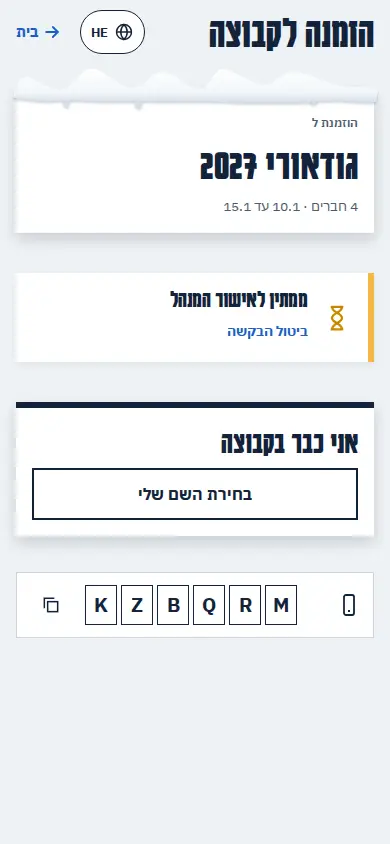
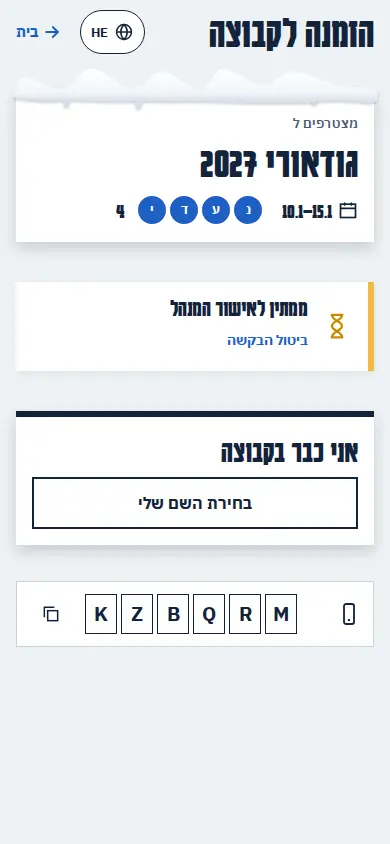
סבב 20: ראש מסך ההצטרפות מראה את הקבוצה; המקור והוודאות לפי החלטה 64
Claude-Session: https://claude.ai/code/session_018WEovaqXC4kNabe89Cnwoj

diff --git a/design/canvas/project/R20-BA-group.dc.html b/design/canvas/project/R20-BA-group.dc.html
@@ -12,9 +12,9 @@
 body{margin:0;background:#EEF2F5}
 </style>
 </helmet>
-<div style="width: 2102px; height: 1074px; box-sizing: border-box; padding: 20px; display: flex; flex-direction: column; gap: 12px; background: #FFFFFF; color: #13233A; font-family: 'IBM Plex Sans Hebrew', system-ui, sans-serif; direction: rtl"><div style="display: flex; flex-direction: column; gap: 6px; height: 144px; max-width: 2062px"><b style="font-family: Karantina, 'Arial Narrow', sans-serif; font-size: 34px; line-height: 1">קבוצה ריקה והצטרפות</b><span style="font-size: 14px; line-height: 1.45; color: #4B5A6F">עודכן לפי ההערות: &quot;יצירת קבוצה דורשת חשבון&quot; ירד; נגיעה ב&quot;יצירת קבוצה&quot; כאורח פותחת מגירת כניסה עם גוגל או אפל וכותרת אחת. בהזמנה: הבקשה הממתינה היא כרטיס (שעון חול, &quot;ממתין לאישור המנהל&quot;, ביטול), והקוד לאפליקציה בכרטיס קטן עם האותיות בתיבות והעתקה.</span><div style="display: flex; gap: 14px; flex-wrap: wrap; font-size: 13.5px; color: #4B5A6F"><span><i style="display: inline-block; width: 14px; height: 14px; margin-inline-end: 5px; vertical-align: -2px; background: #D5372E55; border: 2px solid #D5372E"></i>מיותר: למחוק</span><span><i style="display: inline-block; width: 14px; height: 14px; margin-inline-end: 5px; vertical-align: -2px; background: #E8A21A55; border: 2px solid #E8A21A"></i>הסבר: להחליף בצורה</span><span><i style="display: inline-block; width: 14px; height: 14px; margin-inline-end: 5px; vertical-align: -2px; background: #1F5FC455; border: 2px solid #1F5FC4"></i>חובה: להציג אחרת</span><span><i style="display: inline-block; width: 14px; height: 14px; margin-inline-end: 5px; vertical-align: -2px; background: #8A97A855; border: 2px solid #8A97A8"></i>משפטי וקרדיטים</span><span>בלי סימון: שמות, כפתורים ומספרים</span></div></div><div style="display: flex; gap: 28px; align-items: flex-start"><div style="display: flex; flex-direction: column; gap: 18px; width: 390px"><b style="height: 16px; font-size: 15px; color: #1F5FC4">קבוצה ריקה: היום</b><img src="/_blob/73fcaba58200e06156442180d3776700" alt="קבוצה ריקה: היום" style="display: block; width: 390px; height: 844px; box-shadow: 0 0 0 1px #CBD5DF"></div><div style="display: flex; flex-direction: column; gap: 18px; width: 390px"><b style="height: 16px; font-size: 15px; color: #1F5FC4">ההצעה</b><img src="/_blob/e12d9a0ebf8f3ea9e98032a8f226312b" alt="ההצעה" style="display: block; width: 390px; height: 844px; box-shadow: 0 0 0 1px #CBD5DF"></div><div style="display: flex; flex-direction: column; gap: 18px; width: 390px"><b style="height: 16px; font-size: 15px; color: #1F5FC4">נגיעה ביצירת קבוצה</b><img src="/_blob/6a4fb3bb698487bb3cea30b7d0b9eee6" alt="נגיעה ביצירת קבוצה" style="display: block; width: 390px; height: 844px; box-shadow: 0 0 0 1px #CBD5DF"></div><div style="display: flex; flex-direction: column; gap: 18px; width: 390px"><b style="height: 16px; font-size: 15px; color: #1F5FC4">הצטרפות: היום</b><img src="/_blob/c225cb967a1c6d4e746834c63dfd9e7f" alt="הצטרפות: היום" style="display: block; width: 390px; height: 844px; box-shadow: 0 0 0 1px #CBD5DF"></div><div style="display: flex; flex-direction: column; gap: 18px; width: 390px"><b style="height: 16px; font-size: 15px; color: #1F5FC4">ההצעה</b><img src="/_blob/51156944ce00b78a7030eb9deee17e79" alt="ההצעה" style="display: block; width: 390px; height: 844px; box-shadow: 0 0 0 1px #CBD5DF"></div></div></div>
+<div style="width: 2102px; height: 1792px; box-sizing: border-box; padding: 20px; display: flex; flex-direction: column; gap: 12px; background: #FFFFFF; color: #13233A; font-family: 'IBM Plex Sans Hebrew', system-ui, sans-serif; direction: rtl"><div style="display: flex; flex-direction: column; gap: 6px; height: 144px; max-width: 2062px"><b style="font-family: Karantina, 'Arial Narrow', sans-serif; font-size: 34px; line-height: 1">קבוצה ריקה והצטרפות</b><span style="font-size: 14px; line-height: 1.45; color: #4B5A6F">עודכן לפי ההערות: &quot;יצירת קבוצה דורשת חשבון&quot; ירד; נגיעה ב&quot;יצירת קבוצה&quot; כאורח פותחת מגירת כניסה עם גוגל או אפל וכותרת אחת. בהזמנה: ראש המסך מראה לאיזו קבוצה מצטרפים, בצורה: השם, התאריכים והחברים, ורק אחר כך השם שלך (הקישור או הקוד כבר קובעים את הקבוצה, ולכן אין בחירה). הבקשה הממתינה היא כרטיס (שעון חול, &quot;ממתין לאישור המנהל&quot;, ביטול), והקוד לאפליקציה בכרטיס קטן עם האותיות בתיבות והעתקה.</span><div style="display: flex; gap: 14px; flex-wrap: wrap; font-size: 13.5px; color: #4B5A6F"><span><i style="display: inline-block; width: 14px; height: 14px; margin-inline-end: 5px; vertical-align: -2px; background: #D5372E55; border: 2px solid #D5372E"></i>מיותר: למחוק</span><span><i style="display: inline-block; width: 14px; height: 14px; margin-inline-end: 5px; vertical-align: -2px; background: #E8A21A55; border: 2px solid #E8A21A"></i>הסבר: להחליף בצורה</span><span><i style="display: inline-block; width: 14px; height: 14px; margin-inline-end: 5px; vertical-align: -2px; background: #1F5FC455; border: 2px solid #1F5FC4"></i>חובה: להציג אחרת</span><span><i style="display: inline-block; width: 14px; height: 14px; margin-inline-end: 5px; vertical-align: -2px; background: #8A97A855; border: 2px solid #8A97A8"></i>משפטי וקרדיטים</span><span>בלי סימון: שמות, כפתורים ומספרים</span></div></div><div style="display: flex; gap: 28px; align-items: flex-start"><div style="display: flex; flex-direction: column; gap: 18px; width: 390px"><b style="height: 16px; font-size: 15px; color: #1F5FC4">קבוצה ריקה: היום</b><img src="/_blob/73fcaba58200e06156442180d3776700" alt="קבוצה ריקה: היום" style="display: block; width: 390px; height: 844px; box-shadow: 0 0 0 1px #CBD5DF"></div><div style="display: flex; flex-direction: column; gap: 18px; width: 390px"><b style="height: 16px; font-size: 15px; color: #1F5FC4">ההצעה</b><img src="/_blob/e12d9a0ebf8f3ea9e98032a8f226312b" alt="ההצעה" style="display: block; width: 390px; height: 844px; box-shadow: 0 0 0 1px #CBD5DF"></div><div style="display: flex; flex-direction: column; gap: 18px; width: 390px"><b style="height: 16px; font-size: 15px; color: #1F5FC4">נגיעה ביצירת קבוצה</b><img src="/_blob/6a4fb3bb698487bb3cea30b7d0b9eee6" alt="נגיעה ביצירת קבוצה" style="display: block; width: 390px; height: 844px; box-shadow: 0 0 0 1px #CBD5DF"></div><div style="display: flex; flex-direction: column; gap: 18px; width: 390px"><b style="height: 16px; font-size: 15px; color: #1F5FC4">הצטרפות: היום</b><img src="/_blob/c225cb967a1c6d4e746834c63dfd9e7f" alt="הצטרפות: היום" style="display: block; width: 390px; height: 844px; box-shadow: 0 0 0 1px #CBD5DF"></div><div style="display: flex; flex-direction: column; gap: 18px; width: 390px"><b style="height: 16px; font-size: 15px; color: #1F5FC4">ההצעה: לפני ואחרי הבקשה</b><img src="/_blob/8ba4272aed5fe8eb2a25b13449570589" alt="ההצעה: לפני ואחרי הבקשה" style="display: block; width: 390px; height: 700px; box-shadow: 0 0 0 1px #CBD5DF"><img src="/_blob/4dfeb63b6ec14c5b087611a0570b84d5" alt="ההצעה: לפני ואחרי הבקשה" style="display: block; width: 390px; height: 844px; box-shadow: 0 0 0 1px #CBD5DF"></div></div></div>
 </x-dc>
-<script type="text/x-dc" data-dc-script data-props='{"$preview":{"width":2102,"height":1074}}'>
+<script type="text/x-dc" data-dc-script data-props='{"$preview":{"width":2102,"height":1792}}'>
 class Component extends DCLogic {
   renderVals() { return {}; }
 }

diff --git a/design/canvas/project/R20-0-Decide.dc.html b/design/canvas/project/R20-0-Decide.dc.html
@@ -12,7 +12,7 @@
 body{margin:0;background:#EEF2F5}
 </style>
 </helmet>
-<div style="width: 600px; height: 1300px; box-sizing: border-box; padding: 28px; background: #FFFFFF; color: #13233A; font-family: 'IBM Plex Sans Hebrew', system-ui, sans-serif; direction: rtl; border-top: 8px solid #1F5FC4"><h1 style="margin: 0; font-family: Karantina, 'Arial Narrow', sans-serif; font-size: 48px; line-height: 1">מה לאשר בסבב 20</h1><p style="margin: 8px 0 12px; font-size: 14.5px; line-height: 1.55; color: #4B5A6F">ביקשת אתר ואפליקציה נקיים וחווייתיים, בלי טקסט שמתאר או מסביר כשאין בו צורך. ספרתי כל טקסט ב-15 מסכים וסיווגתי אותו, וציירתי את המסכים העמוסים אחרי, בתוך האתר האמיתי. וגם: טופס "הטיול שלך" מחדש. שום דבר לא נבנה לפני שתאשר.</p><ol style="margin: 0; padding: 0; list-style: none"><li style="display: flex; flex-direction: column; gap: 2px; padding: 9px 0; border-top: 1px solid #CBD5DF"><b style="font-size: 16px">עודכן לפי ההערות שלך</b><span style="font-size: 14px; line-height: 1.55; color: #4B5A6F">כל ההערות על סבב 20 בקנבס טופלו בלוחות (6.10.2026): דף הבית, פאנל המסלול, נקודת המפגש, המשחקים, ההגדרות, הכניסה, הקבוצה וההזמנה. בכל לוח, עמודת &quot;ההצעה&quot; היא הגרסה החדשה.</span></li><li style="display: flex; flex-direction: column; gap: 2px; padding: 9px 0; border-top: 1px solid #CBD5DF"><b style="font-size: 16px">הכלל</b><span style="font-size: 14px; line-height: 1.55; color: #4B5A6F">אם הטקסט לא אומר משהו שאין במסך עצמו, הוא יורד. מה שחייב להישאר מקבל צורה: סמל, מספר גדול, כרטיס או מגירה.</span></li><li style="display: flex; flex-direction: column; gap: 2px; padding: 9px 0; border-top: 1px solid #CBD5DF"><b style="font-size: 16px">שאלה 1: המקור והוודאות</b><span style="font-size: 14px; line-height: 1.55; color: #4B5A6F">ביקשת להוריד מפאנל המסלול את המקור ומידת הוודאות. זה משנה את כלל הדיוק 5 ב-CLAUDE.md (&quot;זה מוצג למשתמש בפאנל&quot;). <b style="color: #13233A">ההמלצה:</b> להוריד מהפאנל כמו שביקשת, ולהשאיר את המידע בנתונים ובסמל (i) ליד שם המסלול, רק למסלולים בוודאות בינונית או נמוכה. לאשר?</span></li><li style="display: flex; flex-direction: column; gap: 2px; padding: 9px 0; border-top: 1px solid #CBD5DF"><b style="font-size: 16px">שאלה 2: &quot;לבחור קבוצה&quot;</b><span style="font-size: 14px; line-height: 1.55; color: #4B5A6F">בהזמנה כתבת &quot;צריכה להיות אפשרות לבחור קבוצה, לא ישר להכניס את השם&quot;. לא הבנתי למה הכוונה: לבחור את השם שלך מרשימת החברים (כמו &quot;בחירת השם שלי&quot;), או לבחור בין כמה קבוצות? (שימו לב: בהזמנה שדורשת אישור רשימת החברים מוסתרת, החלטה 43.)</span></li><li style="display: flex; flex-direction: column; gap: 2px; padding: 9px 0; border-top: 1px solid #CBD5DF"><b style="font-size: 16px">טופס &quot;הטיול שלך&quot;</b><span style="font-size: 14px; line-height: 1.55; color: #4B5A6F">בלי שינוי מהגרסה הקודמת: הכרטיס הוא הטופס, שתי נגיעות בלוח שנה, השאר לא חובה.</span></li><li style="display: flex; flex-direction: column; gap: 2px; padding: 9px 0; border-top: 1px solid #CBD5DF"><b style="font-size: 16px">איך ממשיכים</b><span style="font-size: 14px; line-height: 1.55; color: #4B5A6F">אחרי האישור: רשימת המחרוזות לסשן התוכן; הקוד אצל סשני האתר והאנדרואיד; שומר היישור בודק ששני הצדדים זהים.</span></li></ol></div>
+<div style="width: 600px; height: 1300px; box-sizing: border-box; padding: 28px; background: #FFFFFF; color: #13233A; font-family: 'IBM Plex Sans Hebrew', system-ui, sans-serif; direction: rtl; border-top: 8px solid #1F5FC4"><h1 style="margin: 0; font-family: Karantina, 'Arial Narrow', sans-serif; font-size: 48px; line-height: 1">מה לאשר בסבב 20</h1><p style="margin: 8px 0 12px; font-size: 14.5px; line-height: 1.55; color: #4B5A6F">ביקשת אתר ואפליקציה נקיים וחווייתיים, בלי טקסט שמתאר או מסביר כשאין בו צורך. ספרתי כל טקסט ב-15 מסכים וסיווגתי אותו, וציירתי את המסכים העמוסים אחרי, בתוך האתר האמיתי. וגם: טופס "הטיול שלך" מחדש. שום דבר לא נבנה לפני שתאשר.</p><ol style="margin: 0; padding: 0; list-style: none"><li style="display: flex; flex-direction: column; gap: 2px; padding: 9px 0; border-top: 1px solid #CBD5DF"><b style="font-size: 16px">עודכן לפי ההערות שלך</b><span style="font-size: 14px; line-height: 1.55; color: #4B5A6F">כל ההערות על סבב 20 בקנבס טופלו בלוחות (6.10.2026): דף הבית, פאנל המסלול, נקודת המפגש, המשחקים, ההגדרות, הכניסה, הקבוצה וההזמנה. בכל לוח, עמודת &quot;ההצעה&quot; היא הגרסה החדשה.</span></li><li style="display: flex; flex-direction: column; gap: 2px; padding: 9px 0; border-top: 1px solid #CBD5DF"><b style="font-size: 16px">הכלל</b><span style="font-size: 14px; line-height: 1.55; color: #4B5A6F">אם הטקסט לא אומר משהו שאין במסך עצמו, הוא יורד. מה שחייב להישאר מקבל צורה: סמל, מספר גדול, כרטיס או מגירה.</span></li><li style="display: flex; flex-direction: column; gap: 2px; padding: 9px 0; border-top: 1px solid #CBD5DF"><b style="font-size: 16px">המקור והוודאות</b><span style="font-size: 14px; line-height: 1.55; color: #4B5A6F">פיני: &quot;אפשר להוריד&quot; (החלטה 64). יורדים מפאנל המסלול, באתר ובאפליקציה; בנתונים נשארים חובה.</span></li><li style="display: flex; flex-direction: column; gap: 2px; padding: 9px 0; border-top: 1px solid #CBD5DF"><b style="font-size: 16px">&quot;לבחור קבוצה&quot; בהזמנה</b><span style="font-size: 14px; line-height: 1.55; color: #4B5A6F">הקישור או הקוד כבר קובעים את הקבוצה, ולכן <b style="color: #13233A">אין בחירה</b>. במקום זה, ראש המסך מראה בבירור לאיזו קבוצה מצטרפים: השם בגדול, התאריכים והחברים כסמלים, ורק אחר כך &quot;איך קוראים לך בקבוצה?&quot;. לאשר?</span></li><li style="display: flex; flex-direction: column; gap: 2px; padding: 9px 0; border-top: 1px solid #CBD5DF"><b style="font-size: 16px">טופס &quot;הטיול שלך&quot;</b><span style="font-size: 14px; line-height: 1.55; color: #4B5A6F">בלי שינוי מהגרסה הקודמת: הכרטיס הוא הטופס, שתי נגיעות בלוח שנה, השאר לא חובה.</span></li><li style="display: flex; flex-direction: column; gap: 2px; padding: 9px 0; border-top: 1px solid #CBD5DF"><b style="font-size: 16px">איך ממשיכים</b><span style="font-size: 14px; line-height: 1.55; color: #4B5A6F">אחרי האישור: רשימת המחרוזות לסשן התוכן; הקוד אצל סשני האתר והאנדרואיד; שומר היישור בודק ששני הצדדים זהים.</span></li></ol></div>
 </x-dc>
 <script type="text/x-dc" data-dc-script data-props='{"$preview":{"width":600,"height":1300}}'>
 class Component extends DCLogic {

diff --git a/design/round20/build.py b/design/round20/build.py
@@ -26,7 +26,7 @@ SRC = {
     'b-about': ('r', 'marked/about.png', 390, 0, 1000), 'a-about': ('r', 'after/about.png', 390, 0, 1000),
     'b-signin': ('r', 'marked/signin.png', 390, 0, 844), 'a-signin': ('r', 'after/signin.png', 390, 0, 844),
     'b-group-empty': ('r', 'marked/group-empty.png', 390, 0, 844), 'a-group-empty': ('r', 'after/group-empty.png', 390, 0, 844),
-    'b-join': ('r', 'marked/join.png', 390, 0, 844), 'a-join': ('r', 'after/join.png', 390, 0, 844), 'a-group-signin': ('r', 'after/group-signin.png', 390, 0, 844),
+    'b-join': ('r', 'marked/join.png', 390, 0, 844), 'a-join': ('r', 'after/join.png', 390, 0, 844), 'a-group-signin': ('r', 'after/group-signin.png', 390, 0, 844), 'a-join-name': ('r', 'after/join-name.png', 390, 0, 700),
     'b-account': ('r', 'marked/account.png', 390, 0, 844),
     'trip-site': ('s', 'site-trip-form.png', 390, 0, 883), 'trip-app': ('q', 'home-26-trip-form-filled.png', 390, 0, 844),
     'trip-1': ('r', 'trip/t1-ticket.png', 390, 0, 844), 'trip-2': ('r', 'trip/t2-dates.png', 390, 0, 844),
@@ -60,8 +60,8 @@ BOARDS = [
      [('היום', ['b-about']), ('ההצעה', ['a-about'])]),
     ('ba', 'BA-signin', 'כניסה', 'עודכן לפי ההערות: שלושת הסמלים (בלי סיסמה, בלי מיילים, רק השם) עברו לתוך הכרטיס "למה להתחבר". בשורה התחתונה ירד "(הטיול שלך)".',
      [('היום', ['b-signin']), ('ההצעה', ['a-signin'])]),
-    ('ba', 'BA-group', 'קבוצה ריקה והצטרפות', 'עודכן לפי ההערות: "יצירת קבוצה דורשת חשבון" ירד; נגיעה ב"יצירת קבוצה" כאורח פותחת מגירת כניסה עם גוגל או אפל וכותרת אחת. בהזמנה: הבקשה הממתינה היא כרטיס (שעון חול, "ממתין לאישור המנהל", ביטול), והקוד לאפליקציה בכרטיס קטן עם האותיות בתיבות והעתקה.',
-     [('קבוצה ריקה: היום', ['b-group-empty']), ('ההצעה', ['a-group-empty']), ('נגיעה ביצירת קבוצה', ['a-group-signin']), ('הצטרפות: היום', ['b-join']), ('ההצעה', ['a-join'])]),
+    ('ba', 'BA-group', 'קבוצה ריקה והצטרפות', 'עודכן לפי ההערות: "יצירת קבוצה דורשת חשבון" ירד; נגיעה ב"יצירת קבוצה" כאורח פותחת מגירת כניסה עם גוגל או אפל וכותרת אחת. בהזמנה: ראש המסך מראה לאיזו קבוצה מצטרפים, בצורה: השם, התאריכים והחברים, ורק אחר כך השם שלך (הקישור או הקוד כבר קובעים את הקבוצה, ולכן אין בחירה). הבקשה הממתינה היא כרטיס (שעון חול, "ממתין לאישור המנהל", ביטול), והקוד לאפליקציה בכרטיס קטן עם האותיות בתיבות והעתקה.',
+     [('קבוצה ריקה: היום', ['b-group-empty']), ('ההצעה', ['a-group-empty']), ('נגיעה ביצירת קבוצה', ['a-group-signin']), ('הצטרפות: היום', ['b-join']), ('ההצעה: לפני ואחרי הבקשה', ['a-join-name', 'a-join'])]),
     ('trip', 'Trip-today', 'הטיול שלך: היום', 'באתר טופס של שמונה שדות. באפליקציה עשרה שדות, כולם עם בוררים. בשני הצדדים רק התאריך באמת חובה.',
      [('באתר', ['trip-site']), ('באפליקציה', ['trip-app'])]),
     ('trip', 'Trip-new', 'הטיול שלך: הכרטיס הוא הטופס', 'אין טופס. על הכרטיס הריק: TLV ו-TBS כבר כתובים, ושדה אחד גדול, "מתי טסים?". לוח שנה אחד, שתי נגיעות (הלוך וחזור), וימי הסקי נצבעים ביניהן. הכרטיס מתמלא מיד; מספר הטיסה והשעות מחכים כשדות על הכרטיס, למי שרוצה. כל שדה פותח רק את המגירה שלו.',
@@ -93,8 +93,8 @@ TEXT_BOARDS = [
 DECIDE = [
     ('עודכן לפי ההערות שלך', 'כל ההערות על סבב 20 בקנבס טופלו בלוחות (6.10.2026): דף הבית, פאנל המסלול, נקודת המפגש, המשחקים, ההגדרות, הכניסה, הקבוצה וההזמנה. בכל לוח, עמודת "ההצעה" היא הגרסה החדשה.'),
     ('הכלל', 'אם הטקסט לא אומר משהו שאין במסך עצמו, הוא יורד. מה שחייב להישאר מקבל צורה: סמל, מספר גדול, כרטיס או מגירה.'),
-    ('שאלה 1: המקור והוודאות', 'ביקשת להוריד מפאנל המסלול את המקור ומידת הוודאות. זה משנה את כלל הדיוק 5 ב-CLAUDE.md ("זה מוצג למשתמש בפאנל"). **ההמלצה:** להוריד מהפאנל כמו שביקשת, ולהשאיר את המידע בנתונים ובסמל (i) ליד שם המסלול, רק למסלולים בוודאות בינונית או נמוכה. לאשר?'),
-    ('שאלה 2: "לבחור קבוצה"', 'בהזמנה כתבת "צריכה להיות אפשרות לבחור קבוצה, לא ישר להכניס את השם". לא הבנתי למה הכוונה: לבחור את השם שלך מרשימת החברים (כמו "בחירת השם שלי"), או לבחור בין כמה קבוצות? (שימו לב: בהזמנה שדורשת אישור רשימת החברים מוסתרת, החלטה 43.)'),
+    ('המקור והוודאות', 'פיני: "אפשר להוריד" (החלטה 64). יורדים מפאנל המסלול, באתר ובאפליקציה; בנתונים נשארים חובה.'),
+    ('"לבחור קבוצה" בהזמנה', 'הקישור או הקוד כבר קובעים את הקבוצה, ולכן **אין בחירה**. במקום זה, ראש המסך מראה בבירור לאיזו קבוצה מצטרפים: השם בגדול, התאריכים והחברים כסמלים, ורק אחר כך "איך קוראים לך בקבוצה?". לאשר?'),
     ('טופס "הטיול שלך"', 'בלי שינוי מהגרסה הקודמת: הכרטיס הוא הטופס, שתי נגיעות בלוח שנה, השאר לא חובה.'),
     ('איך ממשיכים', 'אחרי האישור: רשימת המחרוזות לסשן התוכן; הקוד אצל סשני האתר והאנדרואיד; שומר היישור בודק ששני הצדדים זהים.'),
 ]

diff --git a/docs/STATUS.md b/docs/STATUS.md
@@ -260,7 +260,7 @@
 
 **החלטות של פיני שממתינות:**
 - [ ] אתרי הסקי הבאים: חמש השאלות ב-`research/resorts.md` (הסדר, החרמון, חצי הכדור הדרומי, Bakuriani, והביקוש הישראלי לפי אתר).
-- [ ] סבב 20 בקנבס: פחות טקסט וטופס "הטיול שלך" (https://claude.ai/artifact/TVdeDbFBhvFDZdhCKjcys4 , עמוד "סבב 20"; `design/round20/README.md`), עם שתי שאלות: המקור והוודאות בפאנל, ו"לבחור קבוצה" בהזמנה.
+- [ ] סבב 20 בקנבס: פחות טקסט וטופס "הטיול שלך" (https://claude.ai/artifact/TVdeDbFBhvFDZdhCKjcys4 , עמוד "סבב 20"; `design/round20/README.md`), המקור והוודאות יורדים מהפאנל (החלטה 64); ממתין לאישור על ראש מסך ההצטרפות (הקבוצה מוצגת בצורה, בלי בחירה).
 - [x] סבב 18 בקנבס (אושר, החלטה 62): יישור הקו בין האתר לאפליקציה (https://claude.ai/artifact/TVdeDbFBhvFDZdhCKjcys4 , עמוד "סבב 18"; `design/round18/README.md`), כולל השאלה על שדות התעופה (K-5).
 - [x] סבב 19 בקנבס (אושר, החלטה 58): מזג אוויר ומיקום, לאתר ולאנדרואיד (https://claude.ai/artifact/TVdeDbFBhvFDZdhCKjcys4 , עמוד "סבב 19"; `design/round19/README.md`), יחד עם מ-6 ו-מ-7 של הארכיטקט.
 - [x] גרסה 1.0: שלוש השאלות נענו (5.10.2026, החלטה 57). ההגדרה ב-`docs/FEATURES.md`, סעיף "גרסה 1.0".
@@ -319,6 +319,8 @@
 - 5.10.2026: **שרת: הדלקת הספירה לפי כתובת רשת נוסתה בשרת החי, נכשלה, והושבה לכבוי** (R-13, D41; פיני אישר את הפריסה). פריסה של `COUNT_BY_ADDRESS = true` (גרסה 9) ובדיקת שלוש הכותרות מזויפות מ-`server/README.md`: `cf-connecting-ip` מזויפת נחסמת כבר בשער (שגיאה 1000, לא מגיעה לפונקציה), אבל **`x-real-ip` מזויפת ו-`x-forwarded-for` מזויפת יצרו כל אחת מפתח אחר מהבקשה בלי כותרות**, כלומר מי שמנחש קודים יכול לעקוף את המגבלה לפי כתובת בכותרת מומצאת. לפי התנאי של הארכיטקט הוחזר מיד המתג לכבוי (גרסה 10, גיבוב הקוד זהה לגרסה 7 שהייתה קודם; הספירה לפי אדם והגנה כללית עובדות כמו קודם). **תקלה שלי בדרך:** בפריסה הראשונה (גרסה 8, כדקה וחצי) נשלח בטעות `actions.ts` כמצייין מקום והפונקציה נשברה; תוקן בגרסה 9 מיד, ובדיקה אחריה (`keepalive`) תקינה. **נשאר:** לגלות איזו כותרת באמת מוסיף השער (בדיקה שרושמת ביומן רק אילו כותרות קיימות, בלי ערכים) ולקבוע לפיה את `clientIp`; רק אחר כך להדליק שוב. **אורח הבדיקה** (`2dfe09ac-3917-4d23-9c66-e0f3c0bbfbc6`) ושלוש שורות ניסיון עם מפתחות מגובבים נשארו, כי מחיקתם נחסמה כפעולה על השרת החי שלא אושרה; המשימה היומית תמחק אותם (שורות הניסיון אחרי יומיים, האורח אחרי תקופת הניקוי).
 
 מהחדש לישן. שורה לכל עבודה משמעותית: תאריך, מה נעשה, ומה נשאר.
+
+- 6.10.2026: **סבב 20, מסך ההצטרפות:** פיני הבין שמצטרף צריך לבחור קבוצה. הקישור או הקוד כבר קובעים אותה, ולכן במקום בחירה, ראש המסך מראה לאיזו קבוצה מצטרפים: השם בגדול, התאריכים והחברים כסמלים, ורק אחר כך השם. נוסף מצב לפני הבקשה. המקור והוודאות ירדו מהפאנל (החלטה 64). ממתין לאישור של פיני.
 
 - 6.10.2026: **סבב 20 עודכן לפי ההערות של פיני בקנבס** (28 הערות). פחות טקסט בכל המסכים: בדף הבית בלי המספר 27, בלי שורת המנעול ובלי פירוט המסלולים, ומצב הרכבלים כרכיב כבוי (12 נקודות ריקות, "0/12"); בפאנל המסלול שלושה מספרים בלי שורה מתחת, ובלי השוואה, חיבורים, הערות ומקור; בנקודת המפגש רק שם התחנה, בלוק "שעה אחרת" בשורת השעות, כרטיס עם תחנה ושעה, בלי "איך מגיעים", ושיתוף בכפתורי סמל; במשחקים בלי תגיות; בכניסה הסמלים בתוך "למה להתחבר"; "יצירת קבוצה" כאורח פותחת מגירת כניסה; בהזמנה כרטיס "ממתין לאישור המנהל" וקוד לאפליקציה בתיבות. **שאלות לפיני:** הורדת המקור והוודאות משנה את כלל הדיוק 5 (ההמלצה: סמל i למסלולים בוודאות בינונית ונמוכה), ומה הכוונה ב"לבחור קבוצה" בהזמנה. ההגזמה בפנורמה תצוגתית בלבד. **אחר כך הפנורמה ירדה (החלטה 63)**, והלוחות שלה הוסרו מהקנבס.
 

diff --git a/design/round20/README.md b/design/round20/README.md
@@ -41,7 +41,7 @@
 ## עודכן לפי ההערות של פיני (6.10.2026)
 
 - 28 הערות בקנבס טופלו בלוחות (`after.mjs`, גרסה 2): עמודת "ההצעה" היא הגרסה החדשה, ונוסף מצב "נגיעה ביצירת קבוצה".
-- **שאלות פתוחות:** הורדת המקור והוודאות מהפאנל משנה את כלל הדיוק 5 ב-`CLAUDE.md`; ומה הכוונה ב"לבחור קבוצה" בהזמנה.
+- **נענו:** המקור והוודאות יורדים מהפאנל (החלטה 64). "לבחור קבוצה": הקישור כבר קובע את הקבוצה, ולכן ראש מסך ההצטרפות מראה אותה בצורה (שם, תאריכים, חברים), בלי בחירה. ממתין לאישור.
 - **ההגזמה בפנורמה תצוגתית בלבד:** השיפועים והמספרים מהגבהים האמיתיים.
 
 ## הכלים (מריצים מהשורש, עם האתר מוגש על פורט 4199)
